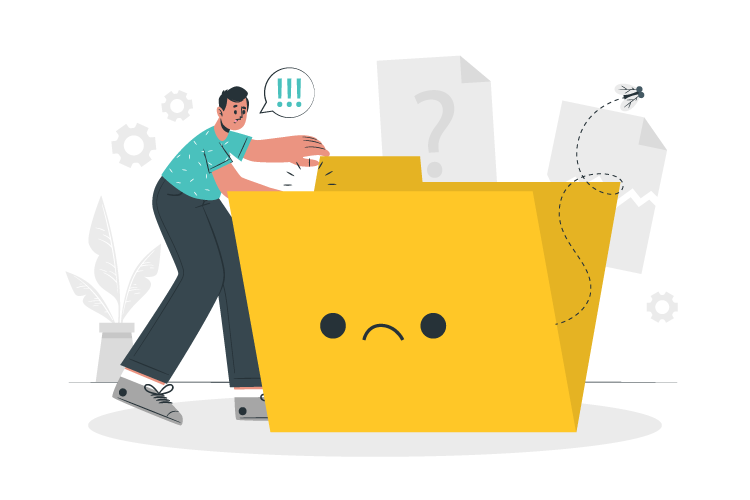
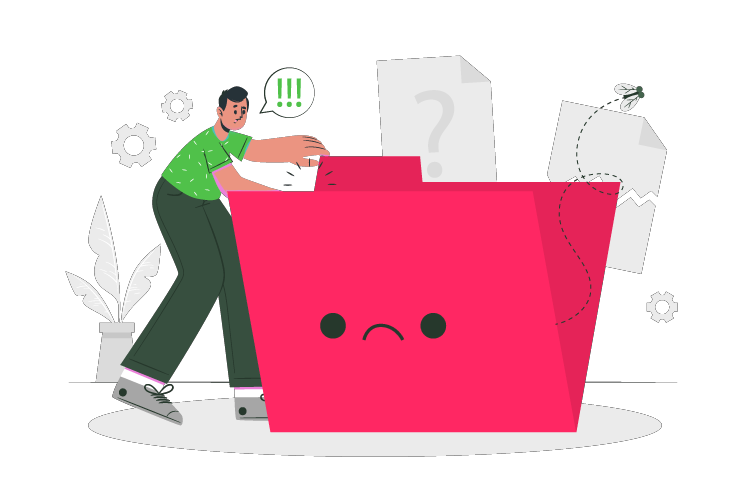
Changed theme

diff --git a/screens/bookingsummary/BookingSummary.js b/screens/bookingsummary/BookingSummary.js
@@ -26,12 +26,17 @@ const BookingSummary = ({ navigation, route }) => {
   const token = authCtx.user.token;
 
   const bookingId = route.params.bookingId;
+  const prevScreen = route.params.prevScreen;
 
   useEffect(() => {
+    let cancel = false;
     async function loadBookingSummary() {
       setIsLoading(true);
       try {
         const response = await getBookingDetails(token, bookingId);
+        if (cancel) {
+          return;
+        }
         if (response.data.success) {
           setBookingData(response.data.booking);
 
@@ -47,7 +52,11 @@ const BookingSummary = ({ navigation, route }) => {
       }
     }
     function backButtonClick() {
-      navigation.navigate("Home");
+      if (prevScreen == "ChargingTransaction") {
+        navigation.navigate("Home");
+      } else {
+        navigation.goBack();
+      }
       return true;
     }
     const backHandler = BackHandler.addEventListener(
@@ -58,6 +67,7 @@ const BookingSummary = ({ navigation, route }) => {
     loadBookingSummary();
     return () => {
       backHandler.remove();
+      cancel = true;
     };
   }, [navigation]);
 
@@ -70,7 +80,9 @@ const BookingSummary = ({ navigation, route }) => {
             navigation={navigation}
             source={require("../../assets/icons/back-white.png")}
             onPress={() => {
-              navigation.navigate("Home");
+              prevScreen == "ChargingTransaction"
+                ? navigation.navigate("Home")
+                : navigation.goBack();
             }}
           />
         </View>
@@ -139,6 +151,7 @@ const BookingSummary = ({ navigation, route }) => {
                 navigation.navigate("BookingDetails", {
                   bookingId: bookingId,
                   status: bookingData.status,
+                  prevScreen: "BookingSummary",
                 });
               }}
             >

diff --git a/screens/chargingtansaction/ChargingTransaction.js b/screens/chargingtansaction/ChargingTransaction.js
@@ -32,12 +32,16 @@ const ChargingTransaction = ({ navigation, route }) => {
 
   const bookingId = route.params.bookingId;
   const currentStatus = route.params.status;
+  const prevScreen = route.params.prevScreen;
 
   const authCtx = useContext(AuthContext);
   const token = authCtx.user.token;
 
   const moveToBookingSummary = () => {
-    navigation.navigate("BookingSummary", { bookingId: bookingData._id });
+    navigation.navigate("BookingSummary", {
+      bookingId: bookingData._id,
+      prevScreen: "ChargingTransaction",
+    });
   };
   const showInstructionSheet = () => {
     setShowInstructionsSheet(true);
@@ -49,6 +53,14 @@ const ChargingTransaction = ({ navigation, route }) => {
   const hideStopSheet = () => {
     setShowTimer(true);
     setShowStopSheet(false);
+  };
+
+  const navigationHandler = () => {
+    if (prevScreen == "BookingDetails") {
+      navigation.navigate("Home");
+    } else {
+      navigation.goBack();
+    }
   };
   async function stopTheTimer() {
     clearInterval(timervalue);
@@ -111,7 +123,11 @@ const ChargingTransaction = ({ navigation, route }) => {
       }
     }
     function backButtonClick() {
-      navigation.navigate("Home");
+      if (prevScreen == "BookingDetails") {
+        navigation.navigate("Home");
+      } else {
+        navigation.goBack();
+      }
       return true;
     }
     const backHandler = BackHandler.addEventListener(
@@ -150,6 +166,7 @@ const ChargingTransaction = ({ navigation, route }) => {
           <HeaderIcon
             navigation={navigation}
             source={require("../../assets/icons/back-white.png")}
+            onPress={navigationHandler}
           />
         </View>
       ),

diff --git a/screens/bookingdetails/BookingDetails.js b/screens/bookingdetails/BookingDetails.js
@@ -43,6 +43,7 @@ const BookingDetails = ({ route, navigation }) => {
   const authCtx = useContext(AuthContext);
   const token = authCtx.user.token;
   const bookingId = route.params.bookingId;
+  const prevScreen = route.params.prevScreen;
   const currentStatus = route.params.status;
 
   const cancelBooking = () => {
@@ -127,10 +128,15 @@ const BookingDetails = ({ route, navigation }) => {
     navigation.navigate("ChargingTransaction", {
       bookingId: bookingData._id,
       status: "Upcoming",
+      prevScreen: "BookingDetails",
     });
   };
   const navigationHandler = () => {
-    navigation.navigate("Home");
+    if (prevScreen == "ChargeNow") {
+      navigation.navigate("Home");
+    } else {
+      navigation.goBack();
+    }
   };
 
   useEffect(() => {
@@ -154,7 +160,11 @@ const BookingDetails = ({ route, navigation }) => {
     }
 
     function backButtonClick() {
-      navigation.navigate("Home");
+      if (prevScreen == "ChargeNow") {
+        navigation.navigate("Home");
+      } else {
+        navigation.goBack();
+      }
       return true;
     }
     const backHandler = BackHandler.addEventListener(

diff --git a/screens/bookinghistoryscreen/bookingHistoryComponents/RenderListItem.js b/screens/bookinghistoryscreen/bookingHistoryComponents/RenderListItem.js
@@ -14,16 +14,19 @@ const RenderListItem = ({ item }) => {
       navigation.navigate("BookingSummary", {
         bookingId: item._id,
         status: item.status,
+        prevScreen: "BookingHistory",
       });
     } else if (item.status == "Upcoming") {
       navigation.navigate("BookingDetails", {
         bookingId: item._id,
         status: item.status,
+        prevScreen: "BookingHistory",
       });
     } else {
       navigation.navigate("ChargingTransaction", {
         bookingId: item._id,
         status: item.status,
+        prevScreen: "BookingHistory",
       });
     }
   };

diff --git a/navigation/Stack.js b/navigation/Stack.js
@@ -9,9 +9,7 @@ import BookingDetails from "../screens/bookingdetails/BookingDetails";
 import ChargeNow from "../screens/chargenowscreen/ChargeNowScreen";
 import ChargingTransaction from "../screens/chargingtansaction/ChargingTransaction";
 import BookingSummary from "../screens/bookingsummary/BookingSummary";
-import TitleText from "../components/TitleText";
-import { StyleSheet, Dimensions, Text } from "react-native";
-import MapScreen from "../screens/mapscreen/MapScreen";
+import { Text } from "react-native";
 
 const Stack = createNativeStackNavigator();
 export function AuthStack() {

diff --git a/App.js b/App.js
@@ -54,7 +54,6 @@ export default function App() {
 
         if (token) {
           const response = await getUserDetails(token);
-
           if (response.data.success) {
             authCtx.authenticate(token);
             authCtx.addUserDetails(response.data.user);

diff --git a/screens/chargenowscreen/chargeNowComponents/ClusterList.js b/screens/chargenowscreen/chargeNowComponents/ClusterList.js
@@ -47,6 +47,7 @@ const ClusterList = ({
         navigation.navigate("BookingDetails", {
           bookingId: response.data.booking._id,
           status: "Upcoming",
+          prevScreen: "ChargeNow",
         });
       } else {
         setIsBooking(false);

diff --git a/constants/Color.js b/constants/Color.js
@@ -1,6 +1,6 @@
 export const Colors = {
-  lightTeal: "#CFFBFA",
-  teal: "#4ac1bd",
+  lightTeal: "#bff2bd",
+  teal: "#4ec14a",
   gray2: "#CECECE",
   gray4: "#858282",
   appBackground: "#f7f7f7",
